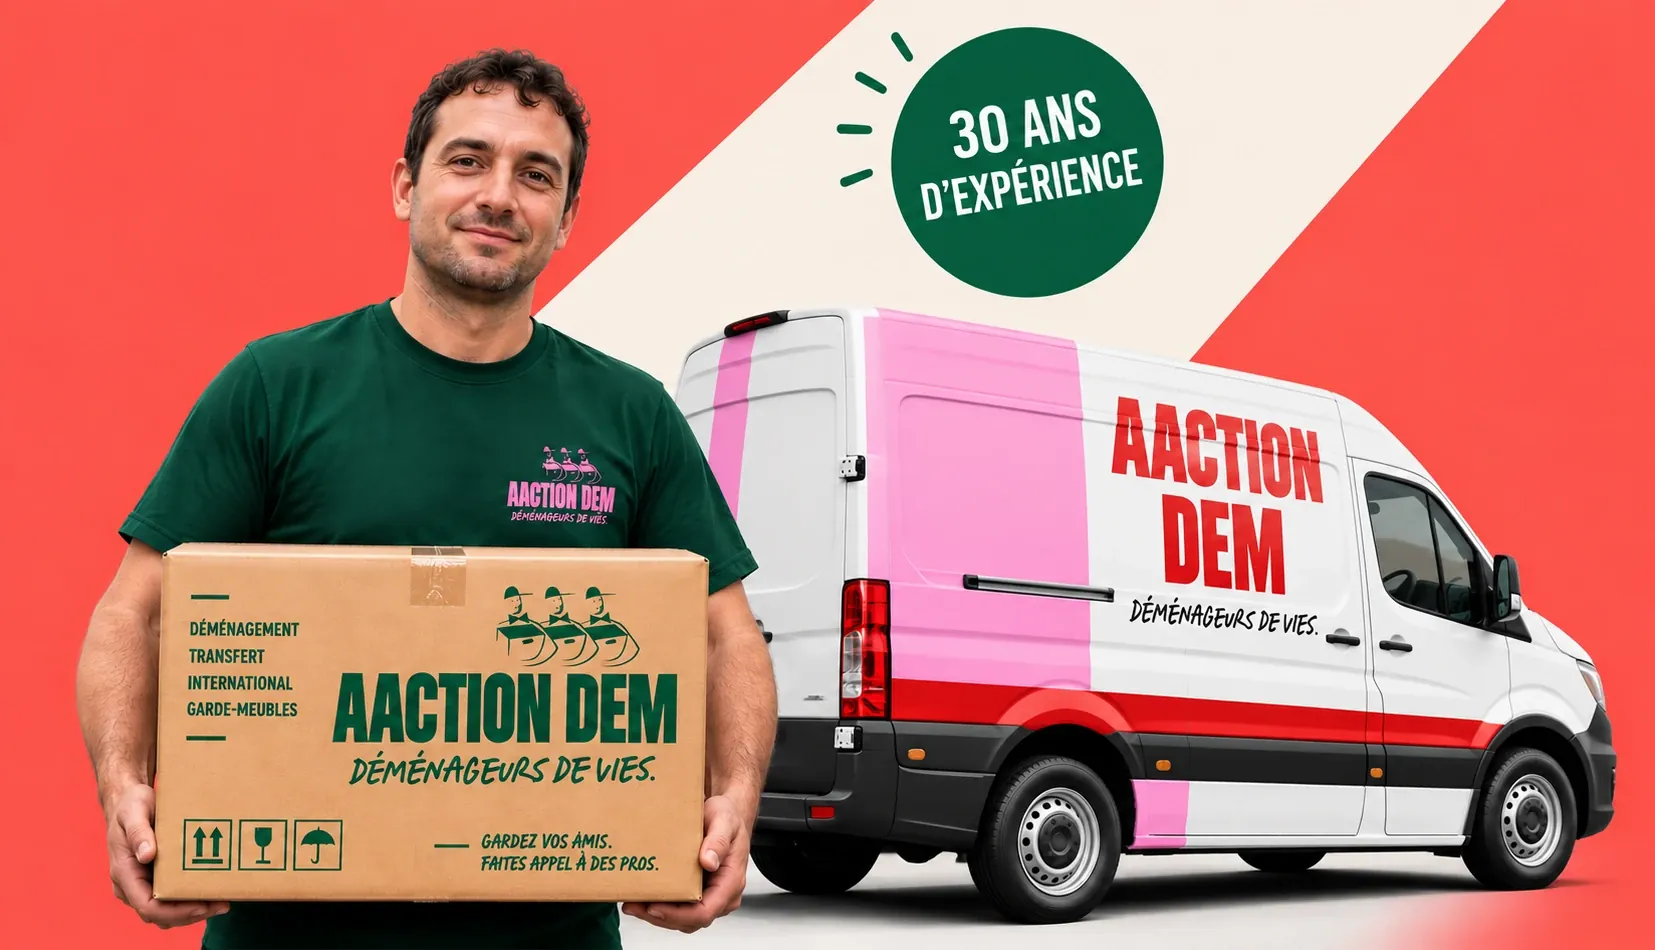
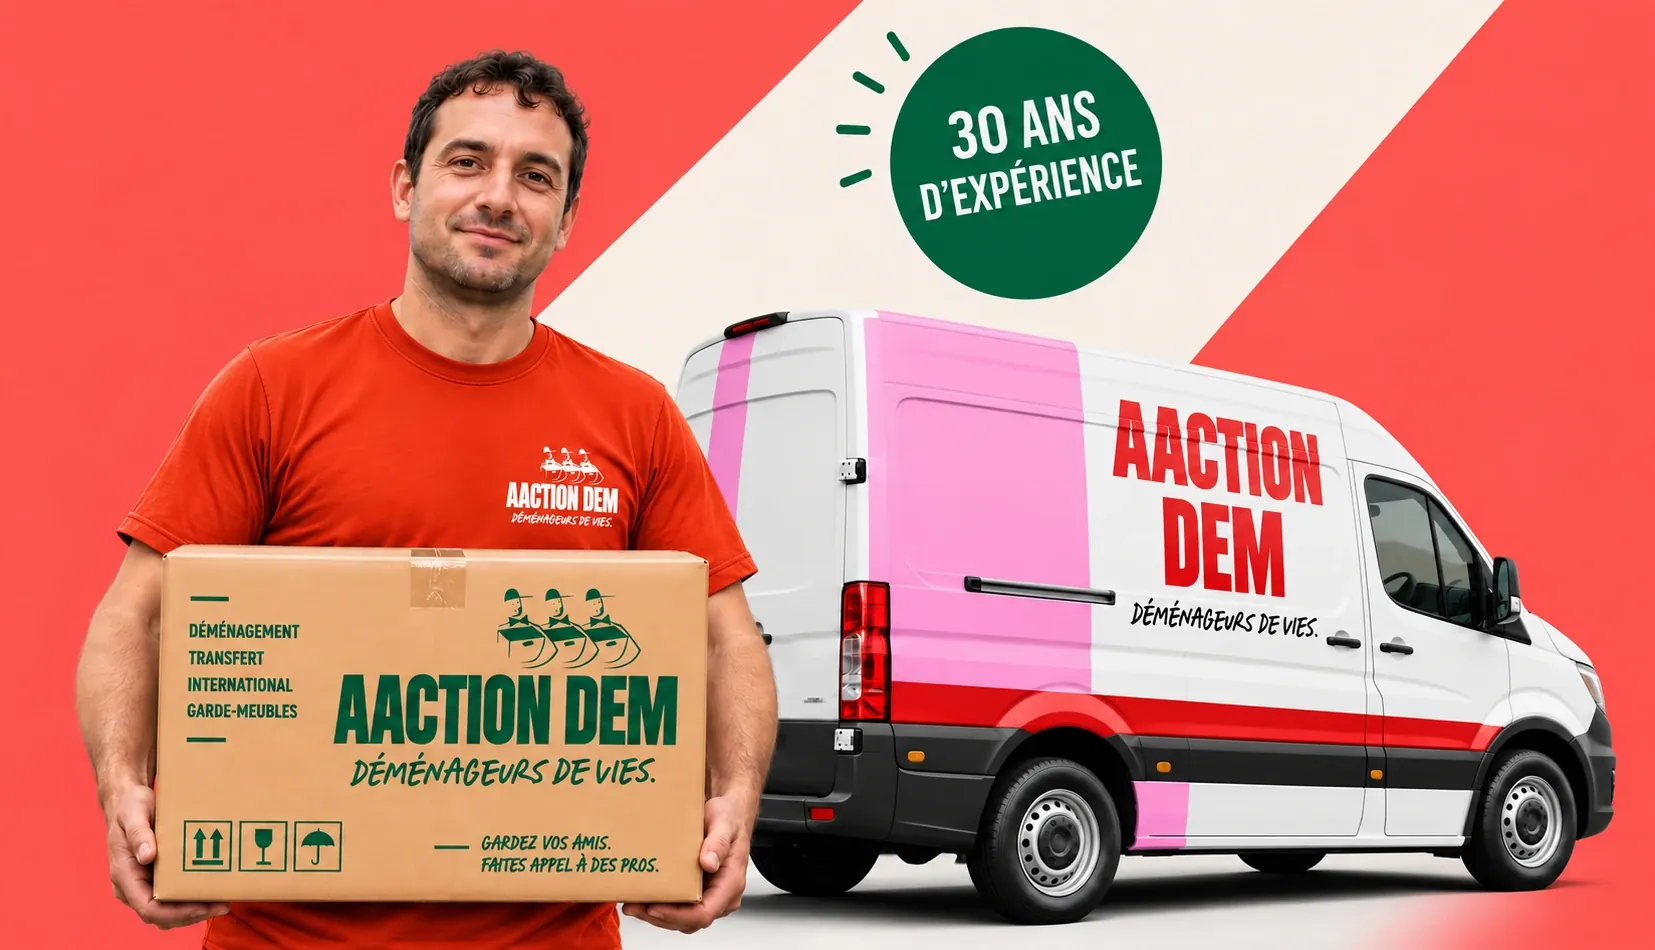
Accueil : nouveau visuel d'en-tête (déménageur t-shirt rouge et camionnette)

diff --git a/scripts/import-site-photos.py b/scripts/import-site-photos.py
@@ -18,7 +18,7 @@ BACKUP = os.path.join(OUT, 'chatgpt')
 PHOTOS = {
     # Hero régénéré avec ChatGPT Images à partir de la photo du site (camionnette entière), recadré (x0, y0, x1, y1)
     # Hero de l'accueil (visuel fourni 2026 : déménageur + camionnette « Déménageurs de vies », fond corail)
-    'hero-demenageur':           ('hero-home-2026.webp', None, .5, 1655),
+    'hero-demenageur':           ('hero-home-2026-v2.webp', None, .5, 1655),  # visuel fourni 2026-11 (déménageur t-shirt rouge + camionnette)
     'particulier': ('nsplsh_5d35408df0604a6e854fcc35209b4488~mv2.jpg', 3/2, .5, 1536),
     'entreprise':  ('nsplsh_f7bd0931e7a74f48a73cd07e891ee0ca~mv2.jpg', 3/2, .5, 1536),
     'garde-meuble':             ('cd448d_1f46ea2f73d4454e812721b249f00b49~mv2.jpg', 3/2, .5, 1536),
